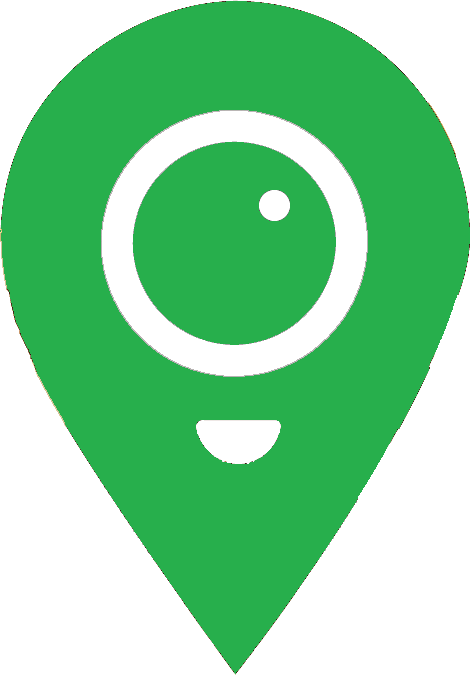
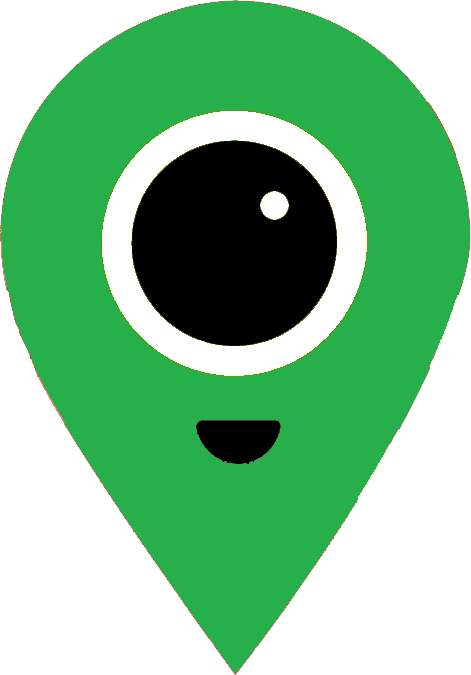
(feat) improve the wormie.png file to show black eyes and mouth

diff --git a/gm_server/routes/wormieController.js b/gm_server/routes/wormieController.js
@@ -16,11 +16,13 @@ module.exports = {
     var hex = '#' + req.hex;
     var newFile = '/' + req.hex +'.png';
 
-    gm(dir + '/black.png')
-    .fuzz(50)
-    .fill(hex)
-    .opaque('black')
+    gm(dir + '/wormie2.png')
     .transparent('white')
+    .fuzz(50)
+    .fill('white')
+    .opaque('green')
+    .fill(hex)
+    .opaque('red')
     .write(dir + newFile, function (err) {
       if (err) return console.dir(arguments);
       res.status(200).send('wormie created successfully');

diff --git a/orig_client/src/components/MapExplore.js b/orig_client/src/components/MapExplore.js
@@ -73,7 +73,7 @@ var MapExplore = React.createClass({
         annotationImage: {
           url: urls.getWormie + feed[wormhole].requestor.wormie_color.slice(1) + '.png',
           height: 35,
-          width: 30
+          width: 25
         },
         // id is the index of the wormhole in the feed
         id: wormhole
